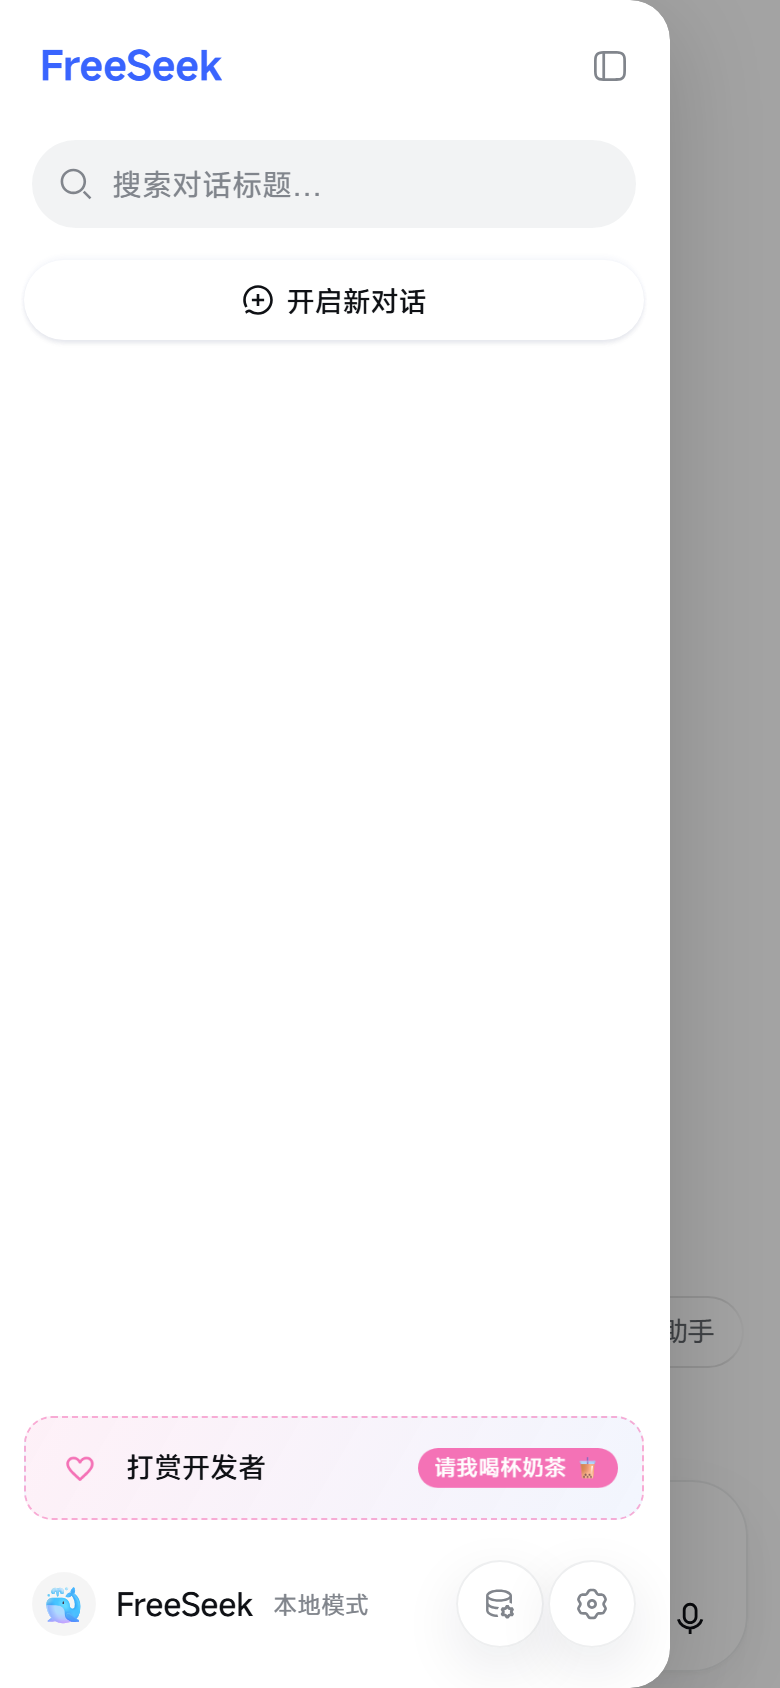
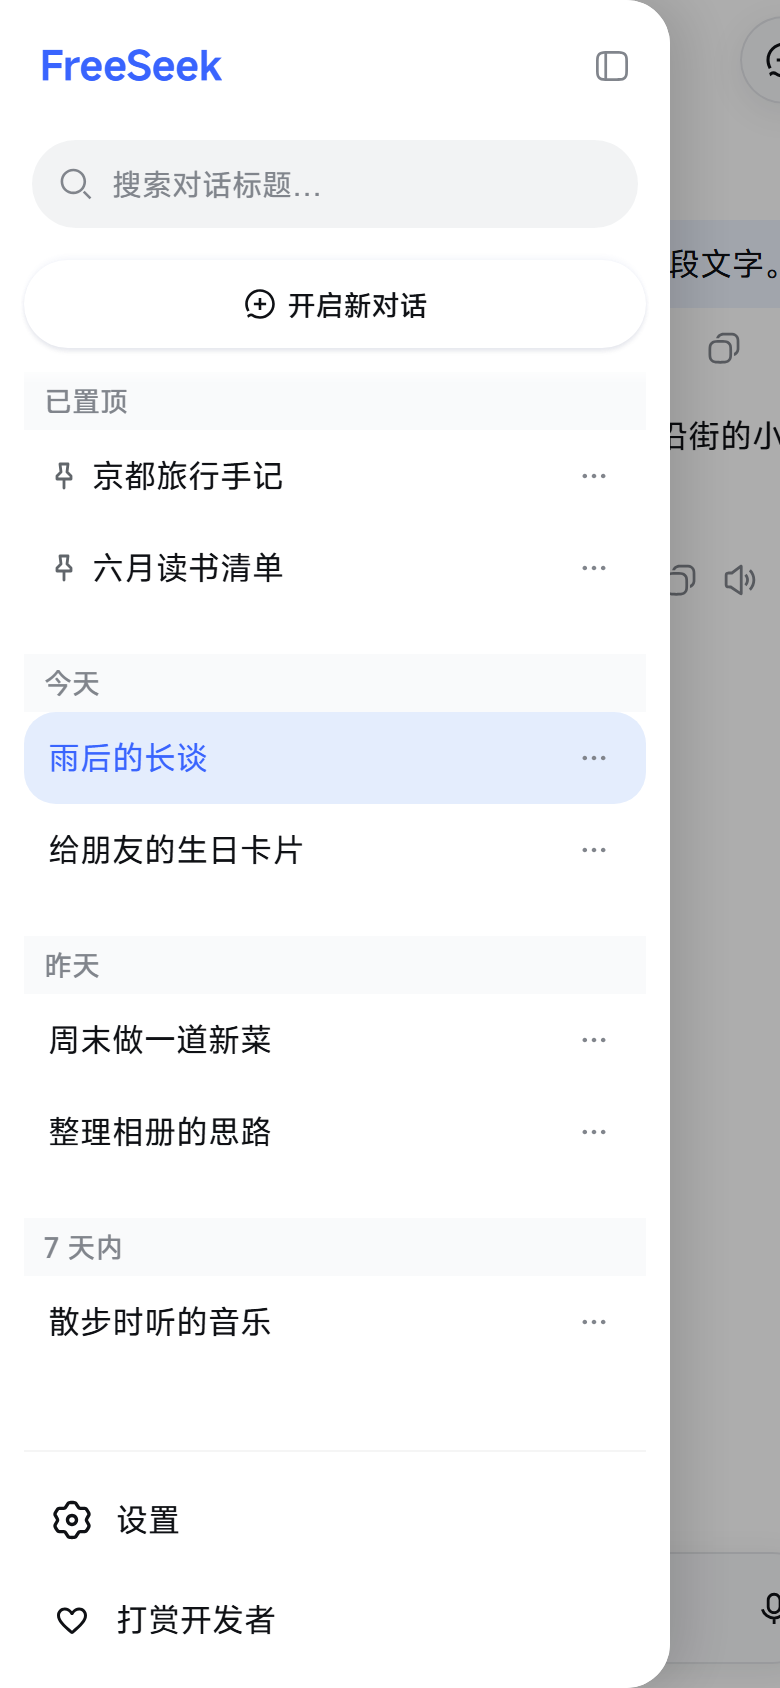
docs(v2.4.0): 记录安卓导入、升级与发布验收 [skip ci]

diff --git a/docs/reviews/2026-11-18-models-personas-share.md b/docs/reviews/2026-11-18-models-personas-share.md
@@ -35,10 +35,19 @@
 - 320/390 宽度、亮/暗模式的 API 配置、人设列表及编辑页已截图检查。预览早期截到进入动画中间帧，稳定帧复核完整显示。
 - 后续在 Android 17 也完成四种协议的实际客户端 → 本机模拟 HTTP 服务聊天；设置页真实操作开关、获取模型和测试模型成功。服务端核验各协议使用对应密钥，无 DeepSeek 专用字段；不等同于各家真实付费服务验收。
 
-证据保存在 `tmp/providers-review`（不入库）。云端矩阵、最终签名包与下载核验完成后补记。未验证每个品牌实机、真实微信/QQ版本接收结果、各家真实 Key 的计费请求、长期内存压力；支持上述协议不等于支持任意私有接口协议。
+本地证据保存在 `tmp/providers-review`。厂商实机、微信/QQ 实际接收、各家真实 Key 的计费请求仍待现场验证。自定义模型服务需兼容上述四种协议之一。
 
-Android 17 实际客户端导入官方格式合成 ZIP：1,302 条目 / 1,300 会话，其中单条 JSON 68,286,957 字节；约 95 秒完成，长文字符数、末尾中文/emoji/转义与回复完整。测试样本不含用户内容，不能等同于报告问题用户的原始备份已验收。
+在 Android 17 模拟器上通过系统文件选择器从 Downloads 打开官方格式合成 ZIP，共 1,302 条目、1,300 个会话，最大一条 JSON 为 68,286,956 字节。约 76 秒后完成，数据库中的会话数、长文字符数、末尾中文/emoji/转义与后续回复均吻合。反馈用户的原始私有 ZIP 未提供。
 
 旧版 Android WebView 74 缺少 `IDBCursor.request`。此前在模拟器复现过暂存 1,300 条但复制游标只走完 1 条的情况。已补回游标到原生请求的对应关系。数据库 v13 升级事务从现存正文重建摘要和附件引用。导入提交事务核对会话和文件的暂存数量、复制数量与结果数量，提前结束即回滚。已验证多个会话、多个附件、残缺 v12 索引升级、游标异常回滚。原依赖的兼容约束见 [idb 8 版本说明](https://github.com/jakearchibald/idb/blob/main/CHANGELOG.md)。
 
 Android 10 / WebView 74 再次运行同规模测试，约 83 秒完成，数据库实际有 1,300 个会话，核验最长一条正文 45,916,630 个 UTF-16 单元、末尾标记及后续回复。1,302 条目的 ZIP 读取按 256KiB 缓存连续文件头与内容，避免小条目逐次调用 FileReader。无图片时跳过 MIME 回填。确认、进行中、失败、重选和进行中误按返回都已单独验证。
+
+## 发布验收
+
+- `v2.4.0` 对应 `3f672cedf68297fbf04beb46367a6d98c4fbf629`。公开构建包含 smoke、86 项浏览器回归、类型、lint 和资源兼容检查。八个系统镜像覆盖 Android 10–17，每个运行三项原生检查，均通过。[构建记录](https://github.com/WikG1018/FreeSeekApp/actions/runs/44144006098) · [系统矩阵](https://github.com/WikG1018/FreeSeekApp/actions/runs/44144016860)
+- Android 10 和 17 上的沉浸滚动层覆盖整个聊天区域，闲置输入框高度 56dp。分别实际调起竖屏与横屏软键盘，输入框和发送按钮均在可见区域内。Android 17 正式包的状态栏底边在 48px，菜单按键上边缘在 74px，点击可展开抽屉。
+- Android 17 模拟器使用旧版页面建立 v12 合成数据，装入正式签名的 2.3.0 后从其侧边栏「v2.4.0 可安装」调起系统安装器，按系统界面授权并完成更新。读回安装包与发布文件逐字节摘要一致。升级保留两条消息、8 字节附件原件、人设、用量和未发送草稿。完整聊天备份重新导出后逐项核对。关于页打开系统分享面板，并通过系统保存器导出 6 项诊断 ZIP，含 2.4.0 / DB v13 信息，未包含合成密钥、草稿、正文、人设正文或附件原件。
[1 lines of base64/hex data omitted]
+- 在本次网络检查中，GitHub 直连、gh-proxy.com、ghfast.top 和 ghproxy.net 的最新更新清单均返回 2.4.0。从四个地址完整下载的 APK 均返回 200，大小和 SHA-256 一致。ghproxy.net 此次完整下载约 64 秒，镜像响应速度随网络变化。
+- 开发仓库的 GitHub Actions 因账号付款或额度限制未启动构建。上述公开 CI、模拟器和签名包检查均已在同一份发布代码上完成。

diff --git a/README.md b/README.md
@@ -8,7 +8,7 @@
 
 <p>
   <img src="docs/screenshots/mobile-welcome.png" width="23.5%" alt="首页" />
-  <img src="docs/screenshots/mobile-chat-footer.png" width="23.5%" alt="对话" />
+  <img src="docs/screenshots/mobile-sider.png" width="23.5%" alt="侧边栏和置顶对话" />
   <img src="docs/screenshots/mobile-persona-manager.png" width="23.5%" alt="人设管理" />
   <img src="docs/screenshots/mobile-usage-panel.png" width="23.5%" alt="用量与费用" />
 </p>
@@ -80,7 +80,7 @@ Android 通过原生网络支持第三方流式请求；网页版仍要求服务
 
 已在 Android 10 / WebView 74 模拟器验证启动、模拟响应聊天、图片、图表、备份导入恢复及系统保存器。厂商实机与真实接口仍需用户反馈；仅凭天玑或骁龙型号不能判断上述故障根因。
 
-2.2.0 起，在 **设置 → 关于 FreeSeek → 诊断日志 → 导出诊断包** 保存 ZIP；Android 使用系统保存器，可自行选择位置，也可取消。反馈问题时附上诊断包、发生时间和操作步骤。
+打开 **设置 → 关于 FreeSeek → 导出并分享诊断包**，在系统面板中选择接收应用。需要保存在手机上时，点 **保存诊断包到文件** 并选择位置。反馈问题时附上诊断包、发生时间和操作步骤。
 
 包内包含版本与运行环境、网络和权限状态、存储数量与体积、请求状态与耗时、上传进度及重试、上下文消息数量与请求体积、备份和更新结果、语音状态及客户端/原生异常栈。日志仅保存在本机，保留最近 7 天，客户端最多 2000 条、原生最多 1000 条。日志存储不可用时尽量导出当前进程的内存记录。
 
@@ -100,7 +100,7 @@ Android 通过原生网络支持第三方流式请求；网页版仍要求服务
 
 官方 App → 设置 → **数据管理** → 导出全部对话，得到 `.zip`；回到 FreeSeek → 设置 → 数据管理 → 导入历史对话。导入会整份替换本机会话，操作前会两次确认。
 
-FreeSeek 2.1.0 起导出的 `freeseek-backup-*.zip` 保存完整消息分支、图片和文档原件、接续上下文、人设库及用量；Android 会打开系统保存器选择位置。新备份需用 2.1.0 或更高版本恢复，旧版及官方备份仍可导入。API Key 不在备份中。
+2.4.0 导出的 `freeseek-backup-*.zip` 保存完整消息分支、可用的附件原件、接续上下文、人设库、置顶状态与用量。Android 会打开系统保存器供你选择位置。这类 v2 备份需使用 FreeSeek 2.4.0 或更高版本恢复。旧版 v1 备份与 DeepSeek 官方备份也可导入。API Key 只保存在本机。
 
 ## 更新机制
 

diff --git a/README.en.md b/README.en.md
@@ -6,7 +6,7 @@ Built on DeepSeek's open-source [chat-demo](https://github.com/deepseek-ai/chat-
 
 <p>
   <img src="docs/screenshots/mobile-welcome.png" width="23.5%" alt="Welcome" />
-  <img src="docs/screenshots/mobile-chat-footer.png" width="23.5%" alt="Chat" />
+  <img src="docs/screenshots/mobile-sider.png" width="23.5%" alt="Sidebar with pinned chats" />
   <img src="docs/screenshots/mobile-persona-manager.png" width="23.5%" alt="Personas" />
   <img src="docs/screenshots/mobile-usage-panel.png" width="23.5%" alt="Usage" />
 </p>
@@ -18,6 +18,7 @@ DeepSeek's official app throttles heavy users: daily quotas, long conversations 
 ## Features
 
 - **Continue from any chat** — a new conversation inherits all context of an old one
+- **Model selection** — choose DeepSeek Flash or V4 Pro in API settings. Advanced settings support OpenAI Chat Completions, Responses, Anthropic Messages and Gemini endpoints, model discovery and a test request. Enable the model switcher in Settings to choose a model from the composer.
 - **Personas** — built-in writer / translator / coder / copywriter / brainstorm presets, plus your own
 - **Usage & cost** — per-reply tokens and cost, per-conversation totals, 14-day chart, session ranking at official peak/off-peak rates
 - **Thinking & web search**, attachments, speech input and read-aloud
@@ -38,11 +39,11 @@ Download the latest `freeseek-v*-release.apk` from [Releases](https://github.com
 
 To bring history over from the official app: official app → Settings → Data management → Export all conversations, then import the `.zip` here.
 
-FreeSeek 2.1.0 backups preserve message branches, all available attachment originals, inherited context, personas, usage and custom pricing. Android uses the system file picker to save the ZIP. Restore new backups with 2.1.0 or later; older and official exports remain importable. API keys are excluded.
+FreeSeek 2.4.0 writes v2 backups with message branches, available attachment originals, inherited context, personas, pinned chats, model references, usage and custom pricing. Restore them with 2.4.0 or later. FreeSeek also reads v1 backups and official DeepSeek chat exports. API credentials stay on the device. In Settings → About FreeSeek, you can share a diagnostic ZIP with another app or save it to a file.
 
 ## Build
 
-Requires Node 24+, pnpm 10, JDK 21 and Android SDK 36.
+Requires Node 24+, pnpm 10, JDK 21 and Android SDK 37.
 
 ```sh
 pnpm install
